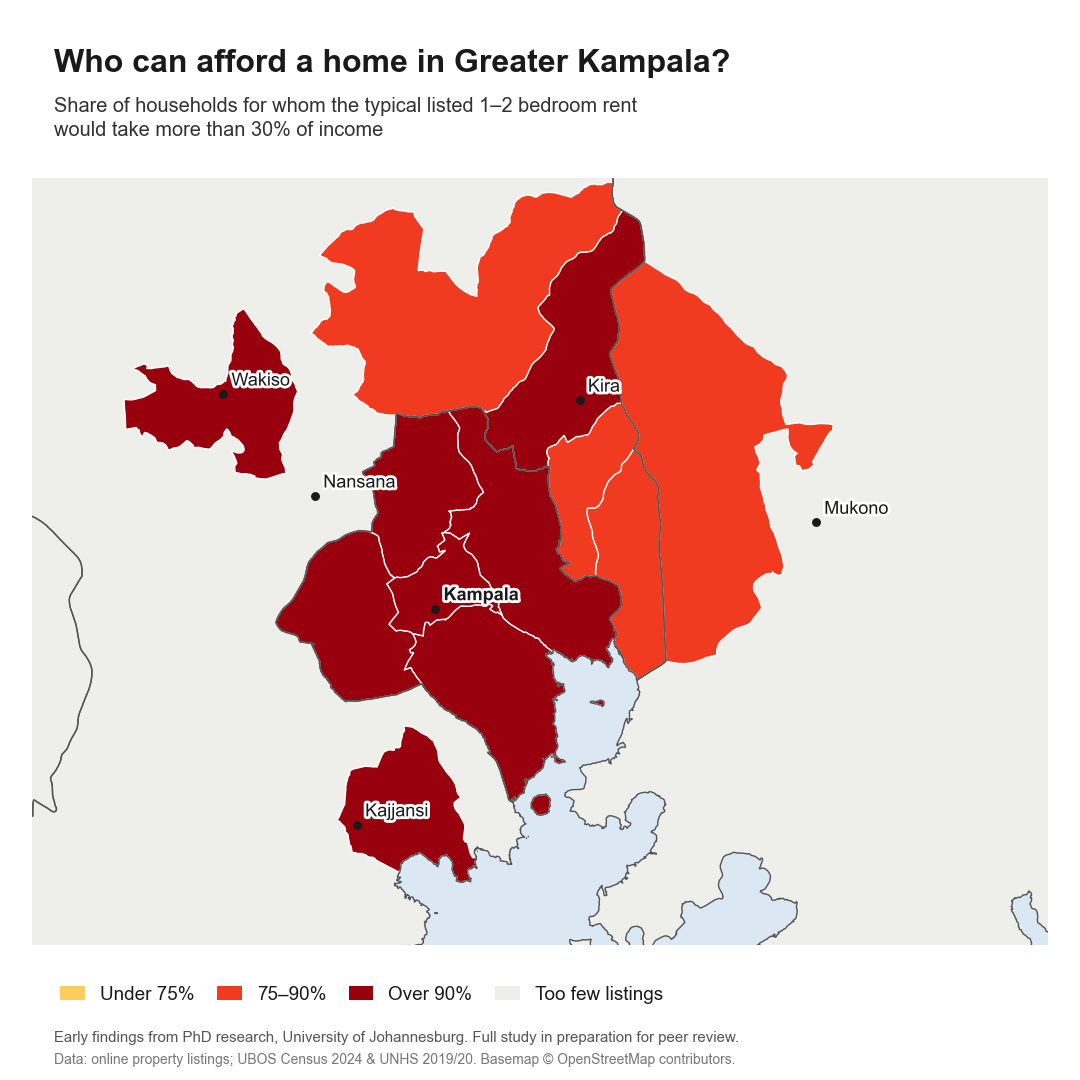
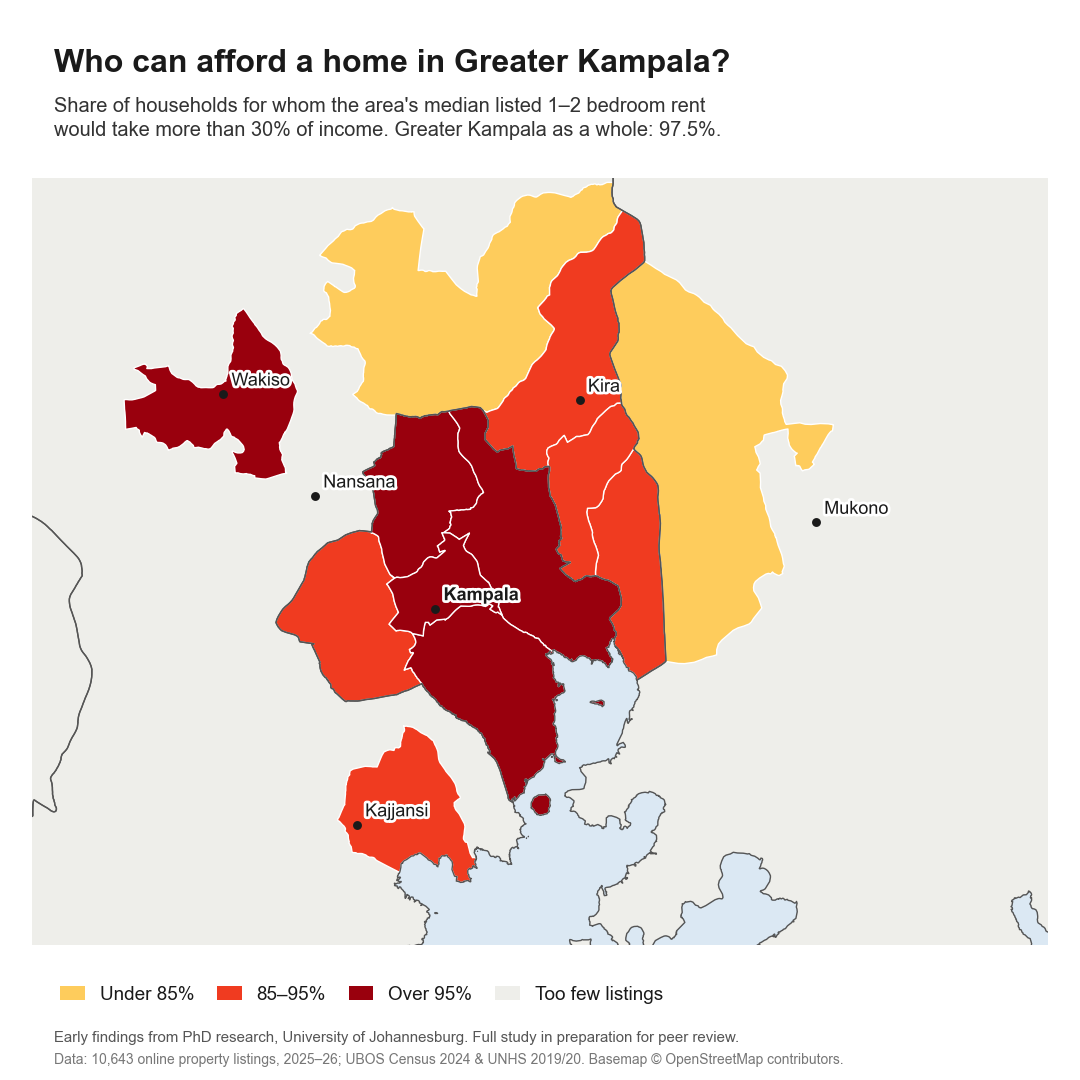
Social posts, map and link preview aligned with the verified index figures

diff --git a/docs/explorer/explorer.html b/docs/explorer/explorer.html
@@ -3,17 +3,17 @@
 <head>
 <meta charset="utf-8">
 <meta name="viewport" content="width=device-width, initial-scale=1, viewport-fit=cover">
-<meta name="description" content="97.5% of households in Greater Kampala cannot afford the typical listed 1–2 bedroom rental at 30% of income. Explore the map by parish, change the assumptions, or play the tour.">
+<meta name="description" content="97.5% of households in Greater Kampala cannot afford the typical listed 1–2 bedroom rental at 30% of income, and 78% even at 80%. Explore the map, change the assumptions, or play the tour.">
 <meta property="og:type" content="website">
 <meta property="og:title" content="Who can afford the housing on offer in Greater Kampala?">
-<meta property="og:description" content="97.5% of households in Greater Kampala cannot afford the typical listed 1–2 bedroom rental at 30% of income. Explore the map by parish, change the assumptions, or play the tour.">
+<meta property="og:description" content="97.5% of households in Greater Kampala cannot afford the typical listed 1–2 bedroom rental at 30% of income, and 78% even at 80%. Explore the map, change the assumptions, or play the tour.">
 <meta property="og:url" content="https://gavacharles.github.io/kampala-affordability-explorer/">
 <meta property="og:image" content="https://gavacharles.github.io/kampala-affordability-explorer/preview.png">
 <meta property="og:image:width" content="1200">
 <meta property="og:image:height" content="630">
 <meta name="twitter:card" content="summary_large_image">
 <meta name="twitter:title" content="Who can afford the housing on offer in Greater Kampala?">
-<meta name="twitter:description" content="97.5% of households in Greater Kampala cannot afford the typical listed 1–2 bedroom rental at 30% of income. Explore the map by parish, change the assumptions, or play the tour.">
+<meta name="twitter:description" content="97.5% of households in Greater Kampala cannot afford the typical listed 1–2 bedroom rental at 30% of income, and 78% even at 80%. Explore the map, change the assumptions, or play the tour.">
 <meta name="twitter:image" content="https://gavacharles.github.io/kampala-affordability-explorer/preview.png">
 <title>Greater Kampala Affordability Explorer</title>
 <link rel="preconnect" href="https://fonts.googleapis.com">

diff --git a/scripts/social_affordability_map.py b/scripts/social_affordability_map.py
@@ -1,9 +1,9 @@
 """Simplified affordability map for social media (1080 x 1080 px).
 
-Deliberately coarser than the paper figure: parish results are aggregated to
-sub-counties / Kampala divisions (household-weighted), shown in three broad
-bands, with no parish boundaries or exact values. Reads the 1-2 bedroom
-scenario from outputs/tables/affordability_beds_1_2.csv.
+Deliberately coarser than the paper figure: the Affordability Gap Index (rent)
+for sub-counties / Kampala divisions with at least 20 rental listings, in three
+broad bands. Same figures as Figure 14 of the paper and the online explorer
+(outputs/tables/affordability_index_subcounty.csv).
 
   python scripts/social_affordability_map.py
 """
@@ -19,16 +19,17 @@ from gkma.config import load_config, p
 from gkma.viz import pubmaps as pm
 
 g = load_config()["geography"]
-aff = pd.read_csv(p("outputs/tables/affordability_beds_1_2.csv")).dropna(subset=["share_cannot_afford"])
+aff = pd.read_csv(p("outputs/tables/affordability_index_subcounty.csv")).dropna(subset=["agi_rent"])
+gk = pd.read_csv(p("outputs/tables/affordability_index_gkma.csv")).iloc[0]
 sub = pm.clip_land(gpd.read_file(p(g["subcounties"])))
 
-# sub-county results (household-weighted parish incomes); needs >= 20 rental listings, as in the paper
+# the paper's gap index by sub-county; needs >= 20 rental listings
 sub["unit_id"] = sub[g["district_name_col"]].str.title() + "/" + sub[g["subcounty_name_col"]]
-sub = sub.merge(aff[["unit_id", "share_cannot_afford", "n_rent"]]
-                .rename(columns={"share_cannot_afford": "share", "n_rent": "n"}), on="unit_id", how="left")
+sub = sub.merge(aff[["area", "agi_rent", "n_rent"]]
+                .rename(columns={"area": "unit_id", "agi_rent": "share", "n_rent": "n"}), on="unit_id", how="left")
 sub.loc[sub["n"].fillna(0) < 20, "share"] = np.nan
 
-bands = [(0, 0.75, "Under 75%", "#fecc5c"), (0.75, 0.90, "75–90%", "#f03b20"), (0.90, 1.01, "Over 90%", "#99000d")]
+bands = [(0, 0.85, "Under 85%", "#fecc5c"), (0.85, 0.95, "85–95%", "#f03b20"), (0.95, 1.01, "Over 95%", "#99000d")]
 
 px = 1080
 fig = plt.figure(figsize=(px / 200, px / 200), dpi=200, facecolor="white")
@@ -59,14 +60,15 @@ for s_ in ax.spines.values():
     s_.set_visible(False)
 
 fig.text(0.05, 0.955, "Who can afford a home in Greater Kampala?", fontsize=11.5, fontweight="bold", va="top")
-fig.text(0.05, 0.91, "Share of households for whom the typical listed 1–2 bedroom rent\nwould take more than 30% of income",
+fig.text(0.05, 0.91, "Share of households for whom the area's median listed 1–2 bedroom rent\n"
+         f"would take more than 30% of income. Greater Kampala as a whole: {gk['agi_rent']:.1%}.",
          fontsize=7.2, color="#333333", va="top", linespacing=1.3)
 handles = [Patch(facecolor=c, edgecolor="none") for *_, c in bands] + [Patch(facecolor="#eeeeea", edgecolor="none")]
 leg = fig.legend(handles, [b[2] for b in bands] + ["Too few listings"], loc="lower left", ncol=4,
                  bbox_to_anchor=(0.04, 0.055), frameon=False, fontsize=6.8, handlelength=1.3, columnspacing=1.2)
 fig.text(0.05, 0.035, "Early findings from PhD research, University of Johannesburg. Full study in preparation for peer review.",
          fontsize=5.4, color="#555555")
-fig.text(0.05, 0.015, "Data: online property listings; UBOS Census 2024 & UNHS 2019/20. Basemap © OpenStreetMap contributors.",
+fig.text(0.05, 0.015, "Data: 10,643 online property listings, 2025–26; UBOS Census 2024 & UNHS 2019/20. Basemap © OpenStreetMap contributors.",
          fontsize=5.0, color="#777777")
 out = p("outputs/social")
 out.mkdir(parents=True, exist_ok=True)

diff --git a/scripts/build_explorer.py b/scripts/build_explorer.py
@@ -23,8 +23,8 @@ data = (ROOT / "outputs/interactive/explorer_data.json").read_text(encoding="utf
 body = tpl.replace("__DATA__", data)
 
 TITLE = "Who can afford the housing on offer in Greater Kampala?"
-DESC = ("97.5% of households in Greater Kampala cannot afford the typical listed 1–2 bedroom rental at 30% of income. "
-        "Explore the map by parish, change the assumptions, or play the tour.")
+DESC = ("97.5% of households in Greater Kampala cannot afford the typical listed 1–2 bedroom rental at 30% of "
+        "income, and 78% even at 80%. Explore the map, change the assumptions, or play the tour.")
 head = f"""<!doctype html>
 <html lang="en">
 <head>
@@ -69,7 +69,8 @@ d.text((x, 262), "97.5%", font=ImageFont.truetype(fonts + "Arial Bold.ttf", 88) 
 d.text((x, 362), "of households cannot afford the", font=fr, fill="#1d2330")
 d.text((x, 394), "typical listed 1–2 bedroom rental", font=fr, fill="#1d2330")
 d.text((x, 426), "at 30% of income", font=fr, fill="#1d2330")
-d.text((x, 540), "Interactive map by parish  ·  play the tour", font=fs, fill="#5b6474")
+d.text((x, 472), "Even at 80% of income: 78% priced out", font=fr, fill="#9b1030")
+d.text((x, 540), "Interactive map  ·  change the assumptions  ·  play the tour", font=fs, fill="#5b6474")
 d.text((x, 566), "10,643 online listings, 2025–26; modelled incomes (UBOS)", font=fs, fill="#5b6474")
 img.save(EXP / "preview.png", optimize=True)
 print("wrote docs/explorer/explorer.html, docs/explorer/preview.png")

diff --git a/outputs/social/substack_linkedin.md b/outputs/social/substack_linkedin.md
@@ -1,27 +1,31 @@
 # Substack post
 
 **Title:** Priced out of the formal market: who can afford a home in Greater Kampala?
-**Subtitle:** Early findings from a new parish-level map of housing affordability
+**Subtitle:** A new map of housing affordability, built from 10,643 online listings
 
 Ask anyone in Kampala about housing and you'll hear the same thing: prices keep rising, and it's getting harder to find somewhere decent to live at a price you can afford. What we've lacked is a map of *where* housing is priced beyond local incomes, and by how much.
 
 National figures don't show this. The housing deficit, mortgage penetration and average rents all describe the country as a whole, not the neighbourhood you'd actually live in.
 
-For my PhD at the University of Johannesburg, I've been building that map. The study brings together about 7,800 online property listings across the Greater Kampala Metropolitan Area, plus Census 2024 and household survey data from the Uganda Bureau of Statistics. It estimates, area by area, what share of households could afford the typical home on offer.
+For my PhD at the University of Johannesburg, I've built that map. The study brings together 10,643 online property listings from across the Greater Kampala Metropolitan Area (2025–26) with Census 2024 and household survey data from the Uganda Bureau of Statistics. It asks, area by area, what share of households could afford the typical home on offer.
 
-Three early findings stand out.
+Four findings stand out.
 
-**1. Most households are priced out of the formal rental market.** For a typical listed 1–2 bedroom home, about 97% of households in Kampala, 87% in Wakiso and 77% in Mukono would have to spend more than 30% of their income on rent. That's the usual affordability threshold. Even in the most affordable areas, most households fall short.
+**1. Almost everyone is priced out of the typical listed rental.** The median listed one- to two-bedroom rent in Greater Kampala is UGX 900,000 a month. At the usual rule of 30% of income, 97.5% of households could not afford it: 99% in Kampala, 94% in Wakiso and 87% in Mukono. The typical household would have to spend more than its entire income on that rent.
 
-**2. The online market is almost entirely titled property.** Fewer than 1% of land listings are kibanja, yet a large share of Greater Kampala sits on untitled or informal land. What's advertised online is a small, formal slice of the housing market. Most households live somewhere else entirely: household survey data show most Kampala renters live in single rooms.
+**2. The finding doesn't depend on the 30% rule.** Even if households spent 80% of their income on rent, 78% would still be priced out. Asked a different question — could they pay the rent and still afford basic needs? — about three in five households would be pushed below the poverty line.
 
-**3. What drives prices changes across the city.** Spatial machine-learning models show that the factors behind prices, such as neighbourhood wealth, plot size and access to the Entebbe Expressway, don't carry the same weight everywhere. A one-size-fits-all housing policy will miss that.
+**3. Buying with a mortgage is out of reach almost everywhere.** On typical Ugandan mortgage terms (about 18% interest, a 30% deposit, 20 years), the median listed house or apartment (UGX 470 million) would need a household income about 27 times the median.
 
-*[Insert the affordability map image: affordability_social_1080.png]*
+**4. The online market is a small, formal slice of the city.** Fewer than 1% of land listings are kibanja, and only 21 of 3,914 houses for sale are described as untitled. Most households live in housing that never appears online: household survey data show most Kampala renters live in single rooms.
 
-Why does this matter? Housing policy in Uganda is increasingly focused on "affordable housing". But affordable to whom, and where? If the formal market serves only a small upper segment of households, then new supply priced for that market won't touch the needs of most families. A parish-level picture lets planners, lenders and policymakers target interventions where the gap is widest.
+*[Insert the tour video (affordability_tour.mp4) or the map image (affordability_social_1080.png)]*
 
-These are early results. The full study, with parish-level maps and detailed methods, is being prepared for peer review. I'll share it here when it's published.
+**Explore the map yourself:** https://gavacharles.github.io/kampala-affordability-explorer/ — change the share of income, switch between renting and buying, test different mortgage terms, or play a 48-second tour of the districts.
+
+Why does this matter? Housing policy in Uganda is increasingly focused on "affordable housing". But affordable to whom, and where? If the formal market serves only a small upper segment of households, then new supply priced for that market won't reach most families. Mapping the gap at district and sub-county level lets planners, lenders and policymakers see where it is widest.
+
+A note on the numbers: they compare *asking* prices of listed homes with *modelled* household incomes, and they describe the formal market, not informal rentals. The full study, with detailed methods, is being prepared for peer review. I'll share it here when it's published.
 
 *If you work on housing, land or urban planning in Uganda, I'd welcome your perspective. Leave a comment or get in touch.*
 
@@ -31,16 +35,45 @@ These are early results. The full study, with parish-level maps and detailed met
 
 **Who can afford a home in Greater Kampala?**
 
-For my PhD at the University of Johannesburg, I'm mapping housing affordability across the Greater Kampala Metropolitan Area, neighbourhood by neighbourhood. The study uses ~7,800 property listings plus UBOS Census 2024 and household survey data.
+For my PhD at the University of Johannesburg, I've mapped housing affordability across the Greater Kampala Metropolitan Area, using 10,643 online property listings and UBOS Census 2024 and household survey data.
 
-Early findings:
-🏠 For a typical 1–2 bedroom rental, ~97% of Kampala households (87% in Wakiso, 77% in Mukono) would pay more than 30% of their income.
-📜 The online market is almost entirely titled property: fewer than 1% of land listings are kibanja.
-📍 What drives prices differs from one part of the city to another.
+🏠 The median listed 1–2 bedroom rent is UGX 900,000 a month. At 30% of income, 97.5% of households couldn't afford it (Kampala 99%, Wakiso 94%, Mukono 87%).
+📈 Even at 80% of income, 78% would still be priced out.
+⚖ For about three in five households, paying that rent would push them below the poverty line.
+🏦 Buying the typical listed house with a mortgage would take about 27 times the median household income.
 
-I've written a short piece on what this means for housing policy 👇
-[link to Substack]
+Explore the interactive map, or play the 48-second tour 👇
+https://gavacharles.github.io/kampala-affordability-explorer/
 
-Full study in preparation for peer review.
+Asking prices vs modelled incomes; formal market only. Full study in preparation for peer review.
 
-#Kampala #Uganda #Housing #Affordability #UrbanPlanning #GIS
+#Kampala #Uganda #Housing #Affordability #UrbanPlanning #GIS #DataVisualization
+
+---
+
+# How to share
+
+**LinkedIn**
+- Upload a video directly rather than only posting a link: LinkedIn plays uploaded videos inline and shows them to more people. Use `affordability_tour.mp4` (48 s) or `hundred_households.mp4` (the shortest).
+- Put the explorer link in the post text (as above) or in the first comment.
+- LinkedIn saves a link's preview the first time anyone shares it. If the preview looks out of date, paste the link into LinkedIn's Post Inspector (linkedin.com/post-inspector) to refresh it.
+- Alt text for the tour video: "Animated map of Greater Kampala zooming into Kampala, Wakiso and Mukono and two sub-counties, showing that 79–99% of households in each area could not afford the typical listed 1–2 bedroom rent at 30% of income."
+
+**Substack**
+- Paste the explorer link on a line of its own: Substack turns it into a preview card with the thumbnail.
+- Add the tour video with the video button, or `affordability_social_1080.png` as an image.
+- Alt text for the map image: "Map of Greater Kampala sub-counties shaded by the share of households who could not afford the median listed 1–2 bedroom rent at 30% of income; every measured sub-county is above 79%."
+
+**Figures used above** (all from the paper and the explorer)
+
+| Figure | Value |
+|---|---|
+| Listings | 10,643 (2025–26) |
+| Median listed 1–2 bedroom rent, Greater Kampala | UGX 900,000 a month |
+| Priced out at 30% of income | GKMA 97.5%; Kampala 98.9%; Wakiso 94.1%; Mukono 86.6% |
+| Priced out at 80% of income | GKMA 78.4% |
+| Pushed below the poverty line by the rent | 59% (a further 19% already below it) |
+| Median listed house or apartment | UGX 470 million |
+| Qualifying income for a mortgage | UGX 14.7 million a month, about 27 × the median (UGX 547,000) |
+| Kibanja share of land listings | 15 of 3,312 (0.5%) |
+| Houses for sale described as untitled | 21 of 3,914 |
